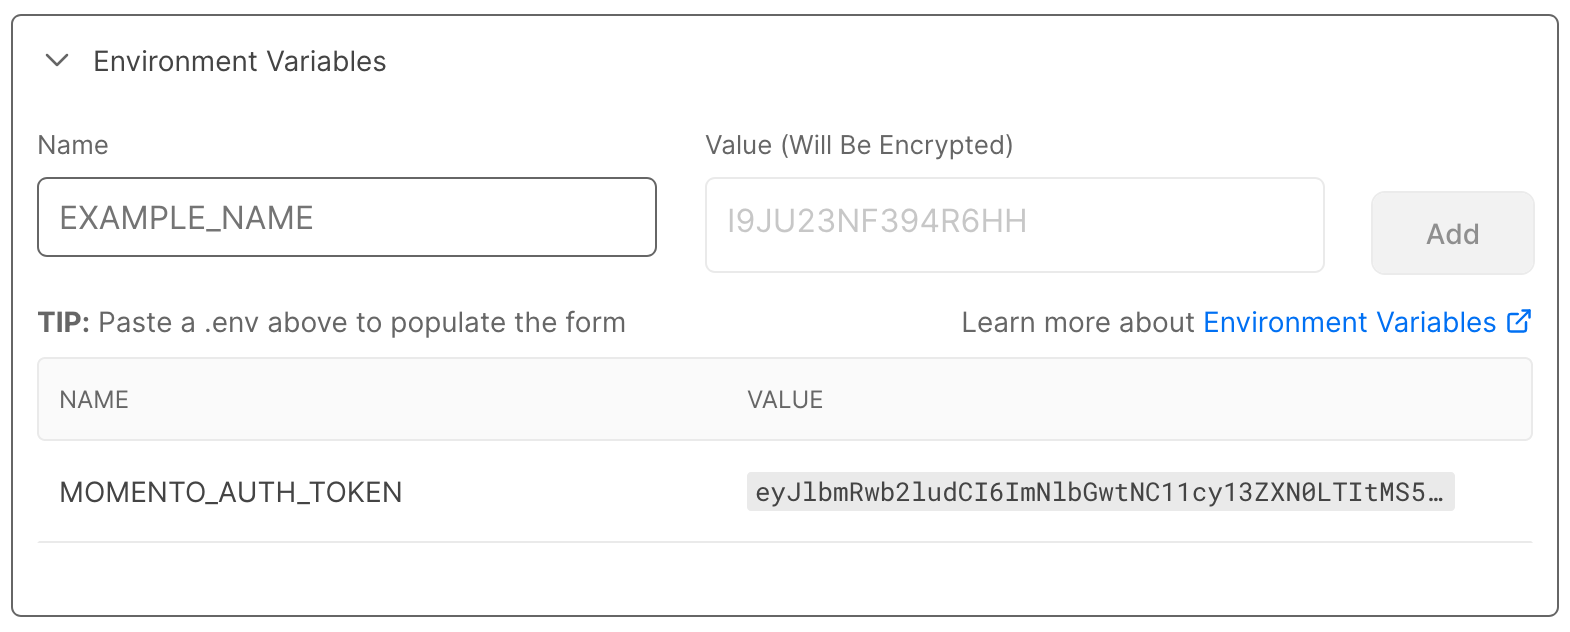
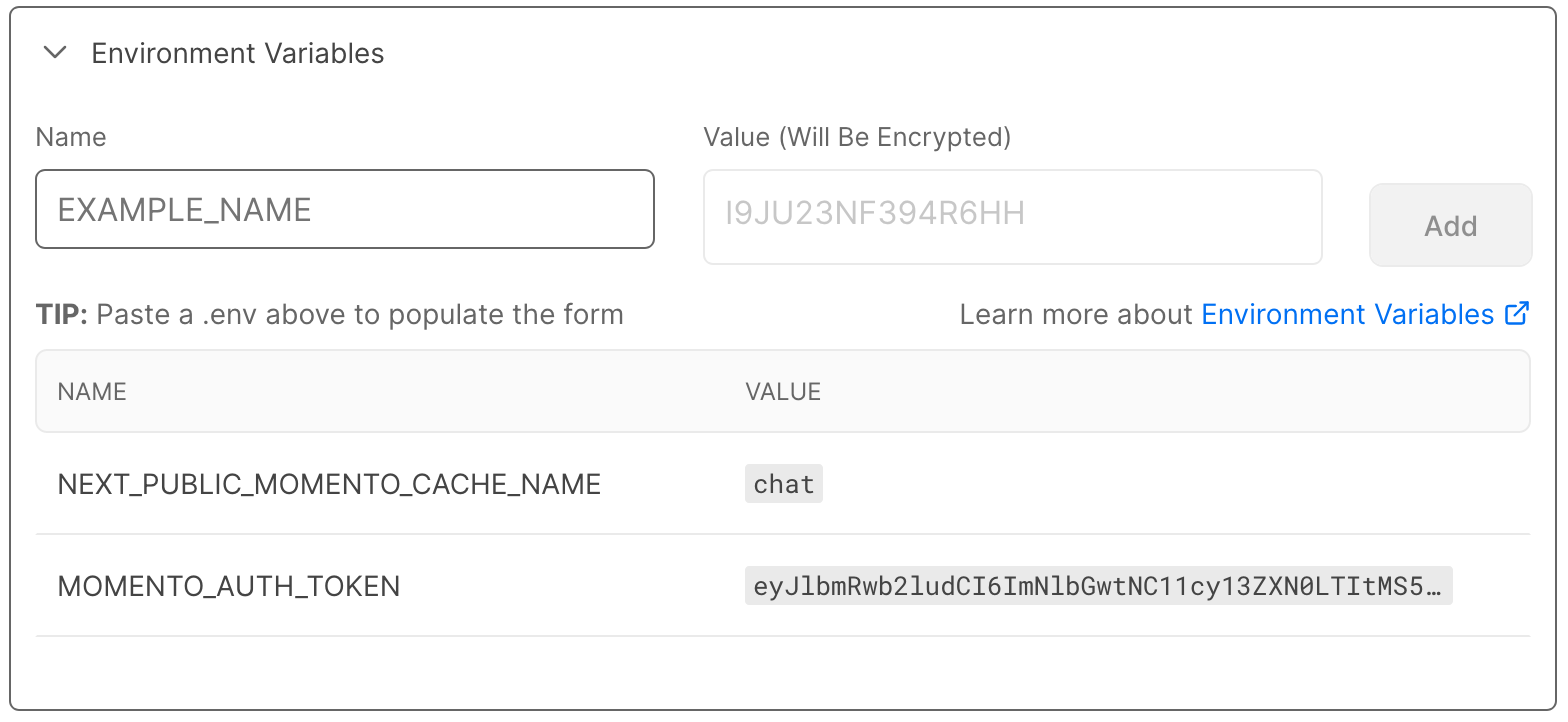
fix: add missing instructions for NEXT_PUBLIC_MOMENTO_CACHE_NAME env var

diff --git a/docs/develop/integrations/netlify-integration.md b/docs/develop/integrations/netlify-integration.md
@@ -65,7 +65,7 @@ Assuming you've entered the base directory correctly, you should see some magic 
 
 ![Netlify build settings](/img/netlify-build-settings.png)
 
-Recall that we generated and saved a Momento auth token earlier for use with this application. Use the `Add environment variables` button below the build settings to add an environment variable with `MOMENTO_AUTH_TOKEN` as the key and the token you generated as the value. And that's all there is to do to configure the deployment. Press the `Deploy client-sdk-javascript` button to deploy the app into the wild!
+Recall that we generated and saved a Momento auth token earlier for use with this application. Use the `Add environment variables` button below the build settings to add an environment variable with `MOMENTO_AUTH_TOKEN` as the key and the token you generated as the value. Next, add a second environment variable with `NEXT_PUBLIC_MOMENTO_CACHE_NAME` as the key and `chat` as the value to point your app to the cache you created earlier. And that's all there is to do to configure the deployment. Press the `Deploy client-sdk-javascript` button to deploy the app into the wild!
 
 During the deployment, Netlify displays a detailed log showing what it's doing to build and publish your site and, if necessary, reporting on deployment failures to assist in troubleshooting. If all went as planned, you'll be directed to a page summarizing the deployment.
 

diff --git a/docs/develop/integrations/vercel-integration.md b/docs/develop/integrations/vercel-integration.md
@@ -60,7 +60,7 @@ The next screen allows you to configure your deployment. Because we are deployin
 
 Notice the Next.js icon next to the selected directory. Vercel has examined the contents of the directory and detected that our project is using Next.js. Because of this auto-detection, we can simply leave the `Build and Output Settings` section alone. It will select default values appropriate to our project. 
 
-Recall that we generated and saved a Momento auth token earlier for use with this application. Use the `Environment Variables` section below the build settings to add an environment variable with `MOMENTO_AUTH_TOKEN` as the name and the token you generated as the value.
+Recall that we generated and saved a Momento auth token earlier for use with this application. Use the `Environment Variables` section below the build settings to add an environment variable with `MOMENTO_AUTH_TOKEN` as the name and the token you generated as the value. Next, add a second environment variable with `NEXT_PUBLIC_MOMENTO_CACHE_NAME` as the key and `chat` as the value to point your app to the cache you created earlier.
 
 ![Vercel environment variables](/img/vercel-environment-variables.png)
 
